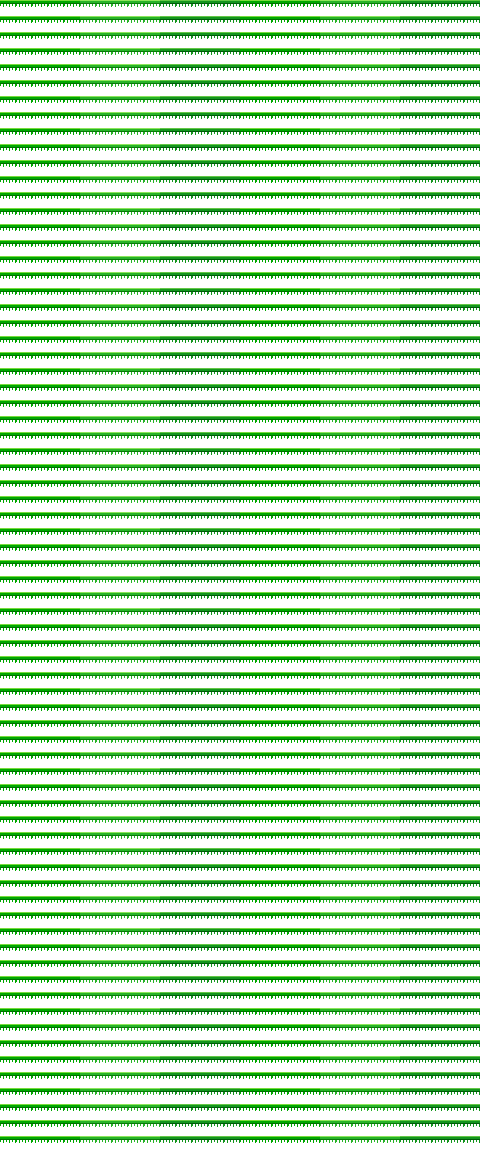
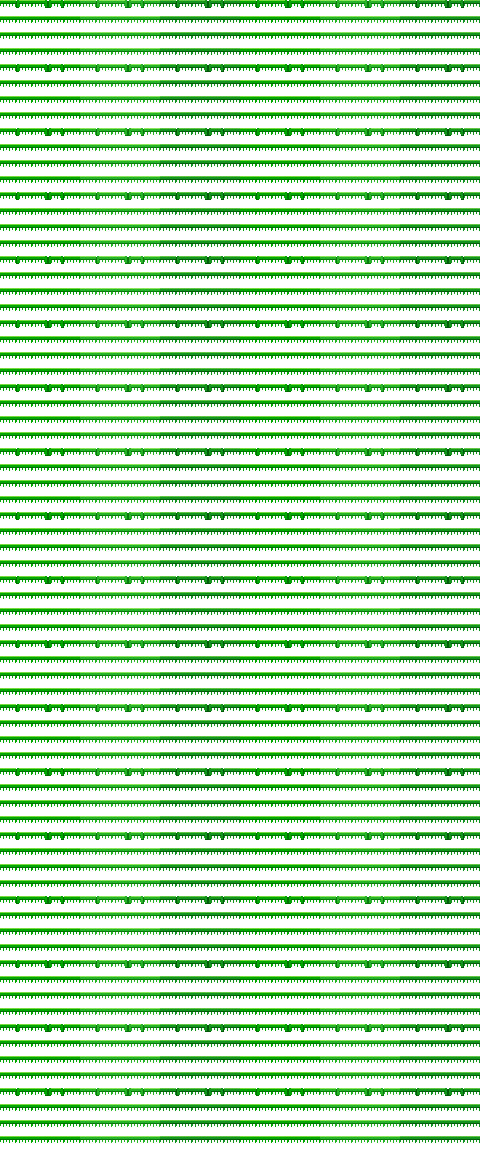
Plants vs. Zombies tests its components (Pvz.Tests); Mario's builder and mole redrawn with shading, grass tops with end pieces; Zelda's main topic is events
Claude-Session: https://claude.ai/code/session_012sjsUQBbC7zon57rWHoo9d

diff --git a/09-plants-vs-zombies/Pvz.Tests/ComponentTests.cs b/09-plants-vs-zombies/Pvz.Tests/ComponentTests.cs
@@ -1,0 +1,60 @@
+using Pvz4;
+using Pvz4.Components;
+using Xunit;
+
+namespace Pvz.Tests;
+
+// A component is one small part with one job, so it can be tested on its own: an entity with
+// only the parts under test, no lawn, no textures and no game running. The world is null
+// because none of these components use it, and the armour's sprite is null because only
+// Draw needs it.
+public class ComponentTests
+{
+    [Fact]
+    public void Damage_lowers_health()
+    {
+        var zombie = new Entity(null);
+        Health health = zombie.Add(new Health(10));
+
+        health.Damage(3);
+
+        Assert.Equal(7, health.Current);
+        Assert.False(zombie.IsRemoved);
+    }
+
+    [Fact]
+    public void Armour_takes_the_damage_first_and_passes_on_the_rest()
+    {
+        var conehead = new Entity(null);
+        Armour cone = conehead.Add(new Armour(5, null));
+        Health health = conehead.Add(new Health(10));
+
+        health.Damage(8);
+
+        Assert.False(cone.IsIntact);
+        Assert.Equal(7, health.Current);
+    }
+
+    [Fact]
+    public void An_entity_whose_health_runs_out_is_removed()
+    {
+        var zombie = new Entity(null);
+        Health health = zombie.Add(new Health(10));
+
+        health.Damage(10);
+
+        Assert.True(zombie.IsRemoved);
+    }
+
+    [Fact]
+    public void A_lifetime_removes_its_entity_when_the_time_is_up()
+    {
+        var sun = new Entity(null).With(new Lifetime(8));
+
+        sun.Update(7.9f);
+        Assert.False(sun.IsRemoved);
+
+        sun.Update(0.2f);
+        Assert.True(sun.IsRemoved);
+    }
+}

diff --git a/README.md b/README.md
@@ -11,7 +11,7 @@ The course site explains each session: [metamate.github.io/gar](https://metamate
 | [04-sokoban](04-sokoban/) | 04 Sokoban | Command pattern |
 | [05-pac-man](05-pac-man/) | 05 Pac-Man | State pattern |
 | [06-super-mario-bros](06-super-mario-bros/) | 06 Super Mario Bros | Physics & tile collision |
-| [07-the-legend-of-zelda](07-the-legend-of-zelda/) | 07 The Legend of Zelda | Composition vs. inheritance |
+| [07-the-legend-of-zelda](07-the-legend-of-zelda/) | 07 The Legend of Zelda | Events & the Observer pattern |
 | [08-angry-birds](08-angry-birds/) | 08 Angry Birds | Integrating a third-party library |
 | [09-plants-vs-zombies](09-plants-vs-zombies/) | 09 Plants vs. Zombies | Component pattern |
 | [10-pokemon](10-pokemon/) | 10 Pokemon | Scenes & UI |

diff --git a/09-plants-vs-zombies/README.md b/09-plants-vs-zombies/README.md
@@ -39,6 +39,19 @@ The finished game, `Pvz4`:
 | The seed packets | `SeedBar.cs` |
 | Waves of zombies | `Level.cs`, `Content/Assets/data/level1.json` |
 | Everything in play | `World.cs` |
+| The tests | `Pvz.Tests/` |
+
+## Tests
+
+`Pvz.Tests` tests the finished game's components one at a time: health, armour that takes
+damage first, and a lifetime that runs out. Each test builds an entity with only the
+components it needs, without a lawn, textures or a running game. That is what small
+components make possible.
+
+```sh
+cd 09-plants-vs-zombies
+dotnet test
+```
 
 ## Content
 
